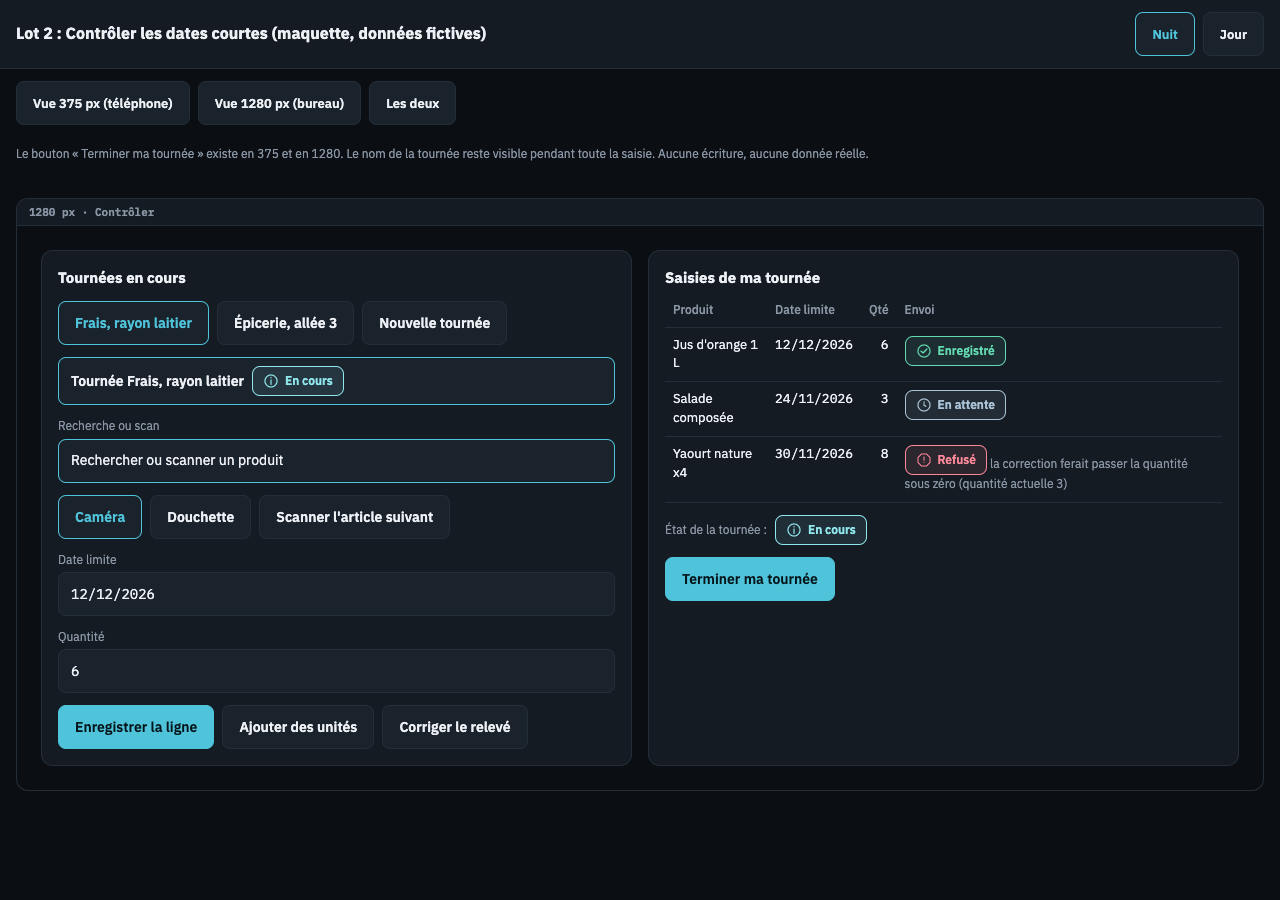
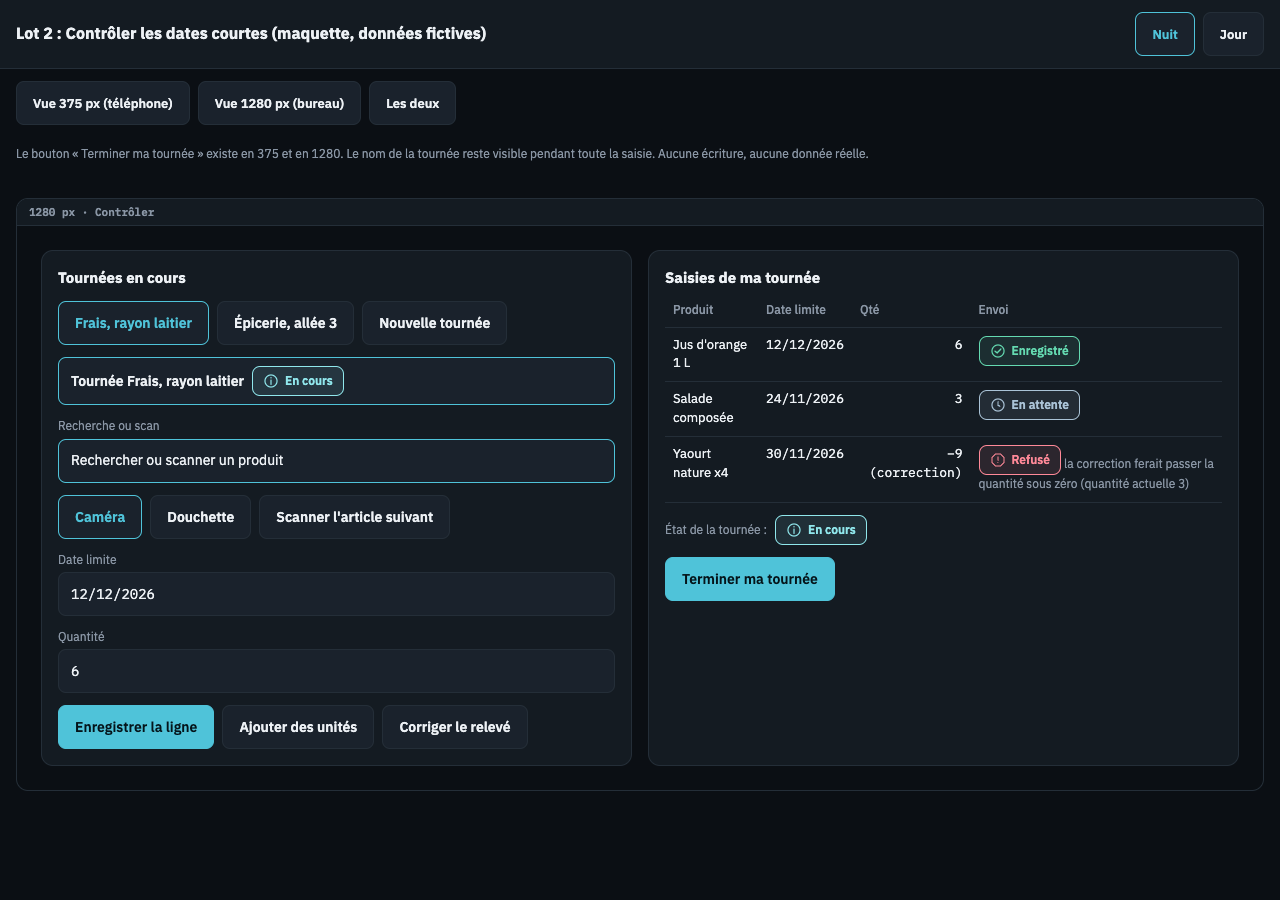
Dates courtes : ligne sans prix hors de B, colonne Quantité, Prix figé, correction Yaourt (revue 7081121942)

diff --git a/outils/maquettes/dates-courtes/lot-5-prevention-pertes.html b/outils/maquettes/dates-courtes/lot-5-prevention-pertes.html
@@ -15,9 +15,9 @@
   <div class="mid" style="margin-top:8px">Dernier relevé retenu : 21/11/2026 à 18 h 12, relevé il y a 1 jour (7 jours ou moins : courante).</div>
   <div class="mid">8 à 14 jours : à vérifier, affichées à part (420 €). Plus de 14 jours : À recontrôler, exclues.</div>
   <div class="rang"><span class="bouton" role="button" aria-label="Comment c'est calculé"><img data-nexus-icone="mod-aide" data-nexus-taille="24" data-nexus-decoratif="1" alt="">Comment c'est calculé</span></div></div>
- <div class="carte"><h3>B · Pertes constatées</h3><div class="montant">186 € HT</div>
+ <div class="carte"><h3>B · Pertes constatées</h3><div class="montant">122 € HT</div>
   <div class="mid" style="margin-top:8px">Période : 01/11/2026 au 21/11/2026. Prix figé à la comptabilisation de chaque démarque ; « prix reconstitué » pour les démarques antérieures au lot 5.</div>
-  <div class="rang"><span data-etat="gravite:a-verifier">1 ligne : Prix d'achat absent</span></div></div>
+  <div class="rang"><span data-etat="gravite:a-verifier">1 ligne : Prix d'achat absent</span><div class="mid">Cette ligne n'a pas de montant et n'entre pas dans B.</div></div></div>
 </div></section>
 <section class="cadre m"><h2>375 px · Nature fiscale non déterminée (quantités seules)</h2><div class="ecran">
  <div class="carte"><h3>A · Valeur à risque</h3><div class="montant">31 unités</div>
@@ -40,14 +40,14 @@
   <div class="mid" style="margin-top:8px">Dernier relevé retenu : 21/11/2026 à 18 h 12, relevé il y a 1 jour (7 jours ou moins : courante).</div>
   <div class="mid">8 à 14 jours : à vérifier, affichées à part (420 €). Plus de 14 jours : À recontrôler, exclues.</div>
   <div class="rang"><span class="bouton" role="button" aria-label="Comment c'est calculé"><img data-nexus-icone="mod-aide" data-nexus-taille="24" data-nexus-decoratif="1" alt="">Comment c'est calculé</span></div></div>
- <div class="carte"><h3>B · Pertes constatées</h3><div class="montant">186 € HT</div>
+ <div class="carte"><h3>B · Pertes constatées</h3><div class="montant">122 € HT</div>
   <div class="mid" style="margin-top:8px">Période : 01/11/2026 au 21/11/2026. Prix figé à la comptabilisation de chaque démarque ; « prix reconstitué » pour les démarques antérieures au lot 5.</div>
-  <div class="rang"><span data-etat="gravite:a-verifier">1 ligne : Prix d'achat absent</span></div></div>
+  <div class="rang"><span data-etat="gravite:a-verifier">1 ligne : Prix d'achat absent</span><div class="mid">Cette ligne n'a pas de montant et n'entre pas dans B.</div></div></div>
  <div class="carte large"><h3>Origine du prix des pertes constatées</h3>
-  <table><thead><tr><th>Produit</th><th>Perte</th><th>Origine du prix</th></tr></thead><tbody>
-   <tr><td>Salade composée</td><td class="n">64 €</td><td><span data-etat="gravite:a-verifier">Prix d'achat absent</span></td></tr>
-   <tr><td>Jus d'orange 1 L</td><td class="n">72 €</td><td><span data-etat="gravite:information">Prix reconstitué</span></td></tr>
-   <tr><td>Yaourt nature x4</td><td class="n">50 €</td><td><span data-etat="gravite:conforme">Prix d'achat connu</span></td></tr>
+  <table><thead><tr><th>Produit</th><th>Quantité</th><th>Perte</th><th>Origine du prix</th></tr></thead><tbody>
+   <tr><td>Salade composée</td><td class="n">8</td><td class="n">—</td><td><span data-etat="gravite:a-verifier">Prix d'achat absent</span></td></tr>
+   <tr><td>Jus d'orange 1 L</td><td class="n">12</td><td class="n">72 €</td><td><span data-etat="gravite:information">Prix reconstitué</span></td></tr>
+   <tr><td>Yaourt nature x4</td><td class="n">10</td><td class="n">50 €</td><td><span data-etat="gravite:conforme">Prix figé</span></td></tr>
   </tbody></table></div>
  <div class="carte"><h3>C · Valeur d'achat des unités écoulées avant échéance</h3><div class="montant indispo">Calcul indisponible</div>
   <div class="mid" style="margin-top:8px">Il manque l'historique de ventes sur la fenêtre de 30 jours.</div></div>

diff --git a/outils/maquettes/dates-courtes/lot-2-saisie.html b/outils/maquettes/dates-courtes/lot-2-saisie.html
@@ -47,7 +47,7 @@
   <table><thead><tr><th>Produit</th><th>Qté</th><th>Envoi</th></tr></thead><tbody>
    <tr><td>Jus d'orange 1 L<div class="mid mono">12/12/2026</div></td><td class="n">6</td><td><span data-etat="gravite:conforme">Enregistré</span></td></tr>
    <tr><td>Salade composée<div class="mid mono">24/11/2026</div></td><td class="n">3</td><td><span data-etat="traitement:en-attente">En attente</span></td></tr>
-   <tr><td>Yaourt nature x4<div class="mid mono">30/11/2026</div></td><td class="n">8</td><td><span data-etat="gravite:critique">Refusé</span><div class="mid">Raison : la correction ferait passer la quantité sous zéro (quantité actuelle 3).</div></td></tr>
+   <tr><td>Yaourt nature x4<div class="mid mono">30/11/2026</div></td><td class="n">−9 (correction)</td><td><span data-etat="gravite:critique">Refusé</span><div class="mid">Raison : la correction ferait passer la quantité sous zéro (quantité actuelle 3).</div></td></tr>
   </tbody></table>
   <div class="rang"><span class="mid">État de la tournée :</span><span data-etat="gravite:information">En cours</span></div>
   <div class="rang"><span class="bouton pri">Terminer ma tournée</span></div></div>
@@ -66,7 +66,7 @@
   <table><thead><tr><th>Produit</th><th>Date limite</th><th>Qté</th><th>Envoi</th></tr></thead><tbody>
    <tr><td>Jus d'orange 1 L</td><td class="mono">12/12/2026</td><td class="n">6</td><td><span data-etat="gravite:conforme">Enregistré</span></td></tr>
    <tr><td>Salade composée</td><td class="mono">24/11/2026</td><td class="n">3</td><td><span data-etat="traitement:en-attente">En attente</span></td></tr>
-   <tr><td>Yaourt nature x4</td><td class="mono">30/11/2026</td><td class="n">8</td><td><span data-etat="gravite:critique">Refusé</span> <span class="mid">la correction ferait passer la quantité sous zéro (quantité actuelle 3)</span></td></tr>
+   <tr><td>Yaourt nature x4</td><td class="mono">30/11/2026</td><td class="n">−9 (correction)</td><td><span data-etat="gravite:critique">Refusé</span> <span class="mid">la correction ferait passer la quantité sous zéro (quantité actuelle 3)</span></td></tr>
   </tbody></table>
   <div class="rang"><span class="mid">État de la tournée :</span><span data-etat="gravite:information">En cours</span></div>
   <div class="rang"><span class="bouton pri">Terminer ma tournée</span></div></div>
